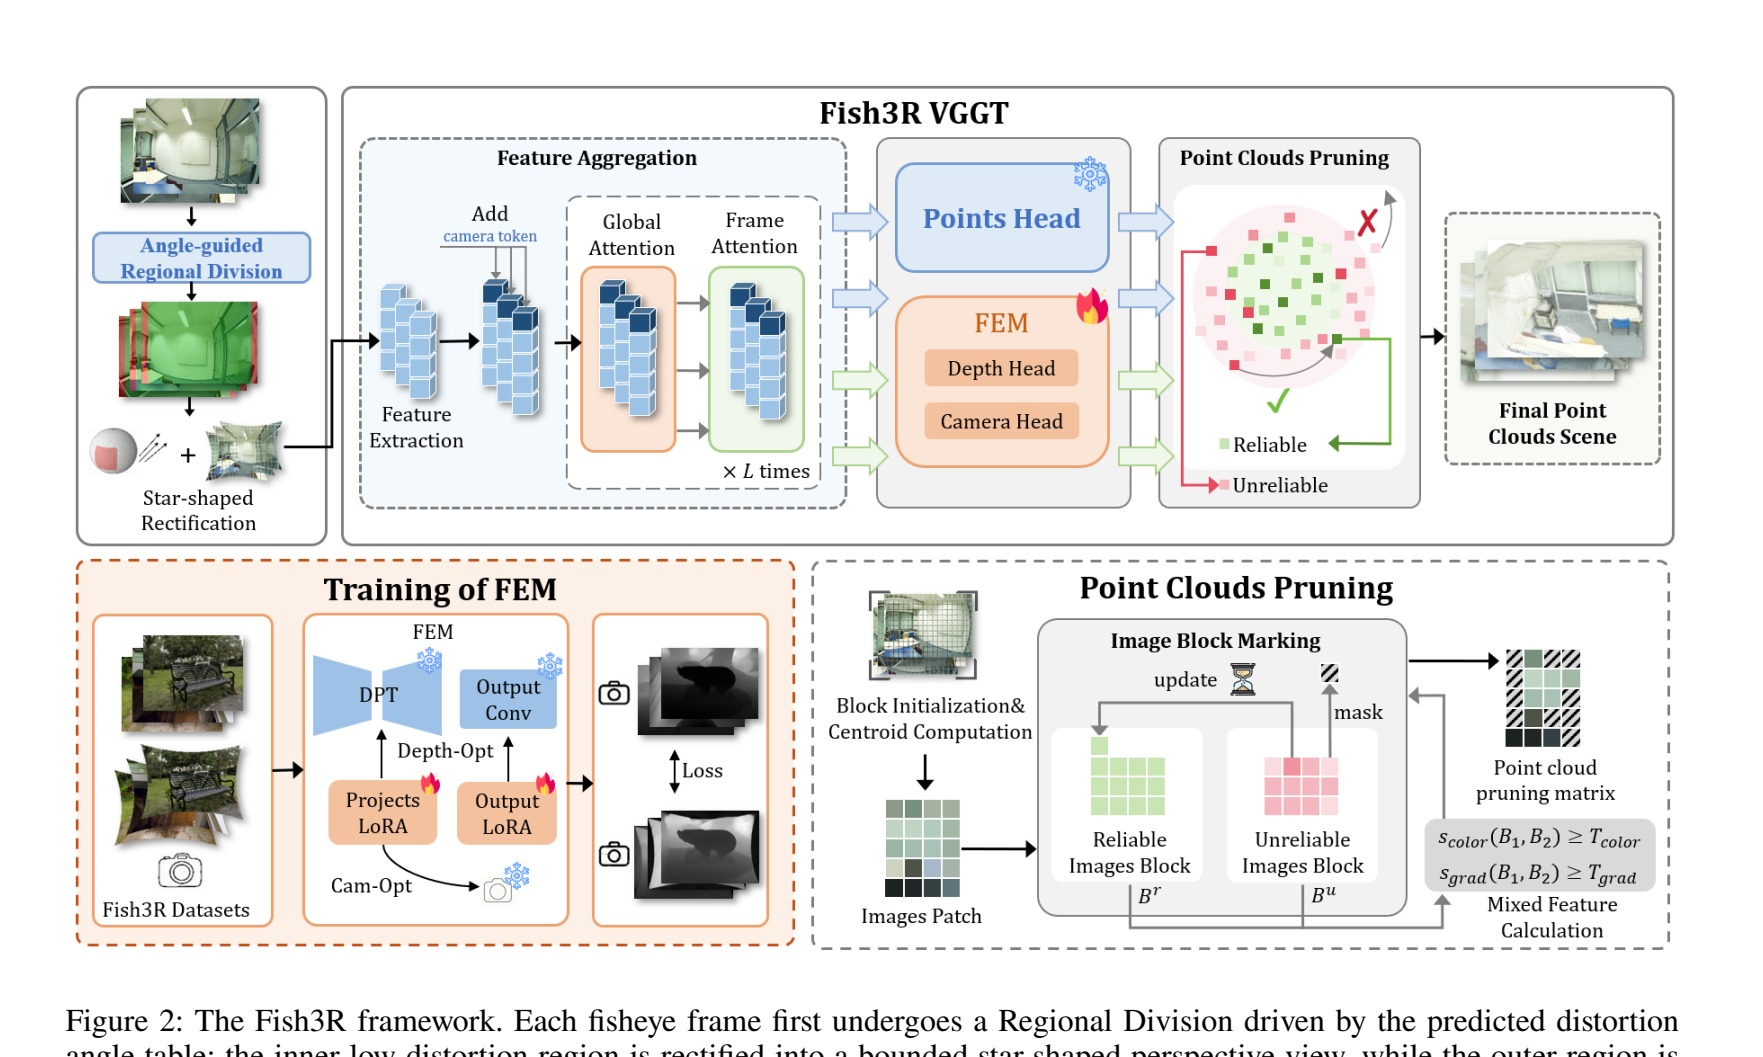
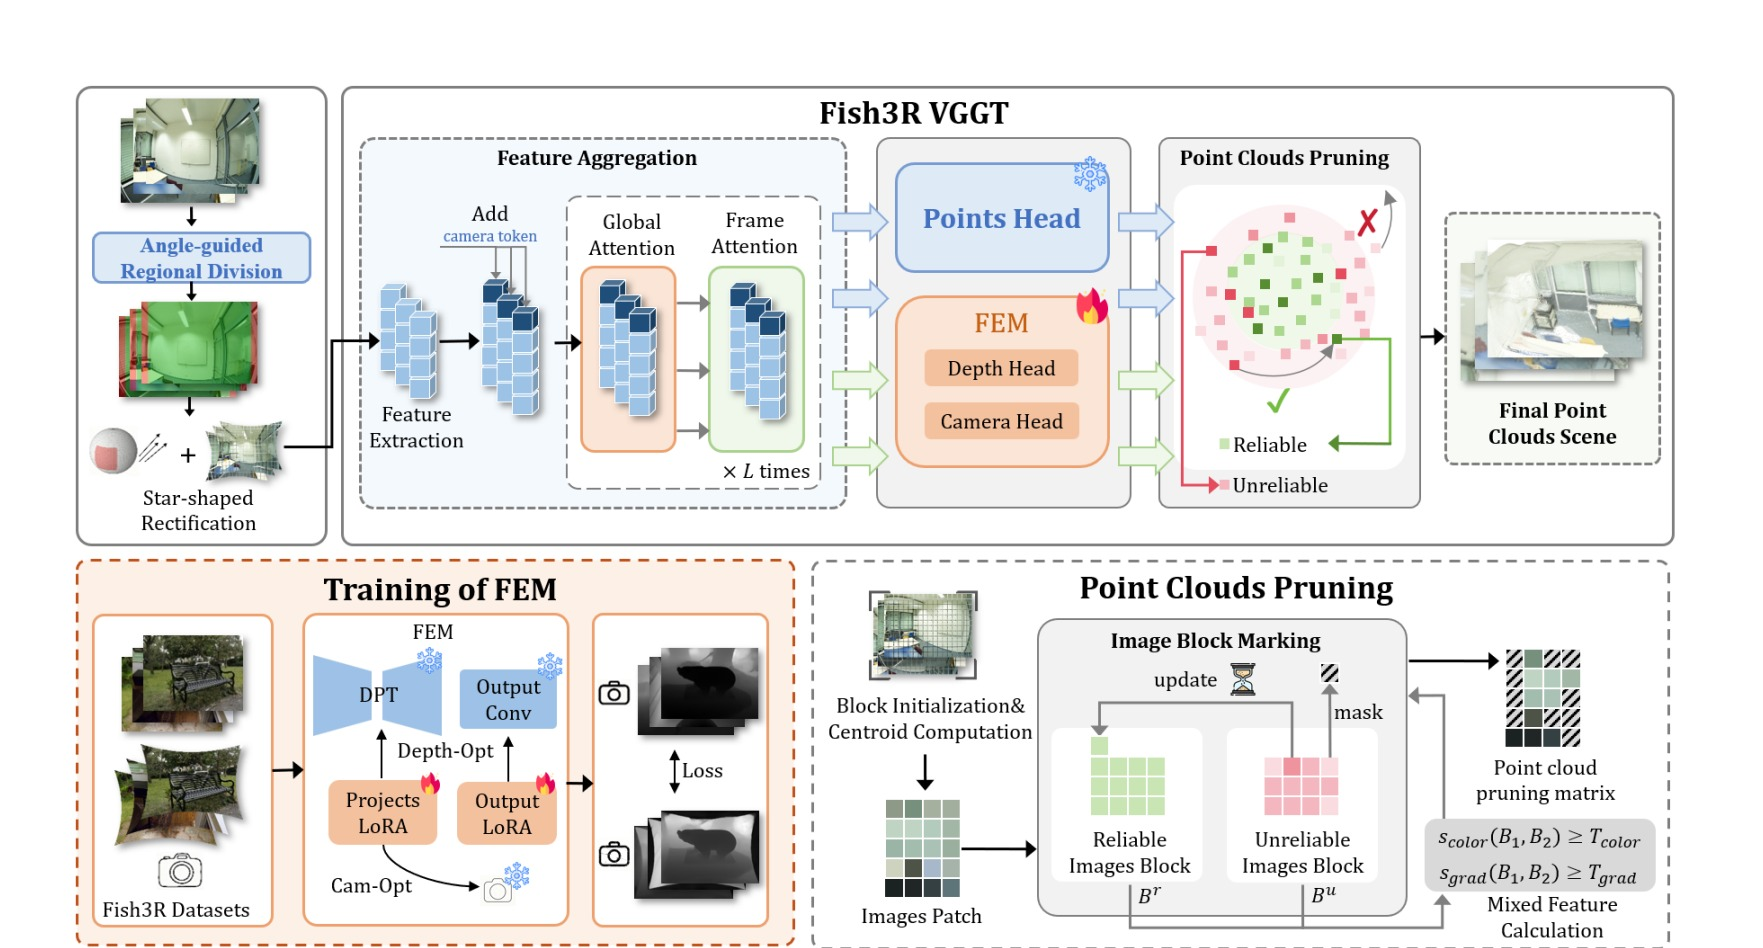
Clean pipeline crop, glow-framed figures, 7-scene marquee

diff --git a/assets/css/style.css b/assets/css/style.css
@@ -149,12 +149,29 @@ img { max-width: 100%; display: block; }
 
 /* figure cards (white figures on dark page) */
 .fig-card {
-  background: #fff; border-radius: var(--radius);
-  padding: 14px; box-shadow: 0 18px 50px rgba(0, 0, 0, .5);
+  position: relative;
+  background: #fff; border-radius: 18px;
+  padding: 14px;
   margin-bottom: 44px;
+  border: 1px solid rgba(148, 163, 216, .28);
+  box-shadow:
+    0 0 0 1px rgba(34, 211, 238, .12),
+    0 0 44px rgba(34, 211, 238, .07),
+    0 22px 60px rgba(0, 0, 0, .55);
 }
-.fig-card img { border-radius: 9px; }
-.fig-card figcaption { padding: 12px 6px 2px; font-size: 13px; color: #4b5164; line-height: 1.55; }
+/* gradient edge: lets the white card melt softly into the dark page */
+.fig-card::after {
+  content: ""; position: absolute; inset: -1px; border-radius: 18px;
+  padding: 1px; pointer-events: none;
+  background: linear-gradient(140deg, rgba(34, 211, 238, .55), rgba(148, 163, 216, .12) 30%, rgba(148, 163, 216, .12) 70%, rgba(129, 140, 248, .5));
+  -webkit-mask: linear-gradient(#000 0 0) content-box, linear-gradient(#000 0 0);
+  -webkit-mask-composite: xor; mask-composite: exclude;
+}
+.fig-card img { border-radius: 10px; }
+.fig-card figcaption {
+  padding: 12px 6px 2px; font-size: 13px; color: #4b5164; line-height: 1.55;
+  border-top: 1px dashed rgba(75, 81, 100, .18); margin: 10px 6px 0;
+}
 
 /* abstract: newspaper-style two-column prose */
 .prose {

diff --git a/assets/js/main.js b/assets/js/main.js
@@ -91,8 +91,10 @@
     if (!track) return;
     var shots = [
       { src: "assets/images/fisheye-kitti.jpg",     label: "KITTI · driving" },
+      { src: "assets/images/fisheye-kitti360.jpg",  label: "KITTI-360 · driving" },
       { src: "assets/images/fisheye-mall.jpg",      label: "Ours · indoor" },
       { src: "assets/images/fisheye-scannet.jpg",   label: "ScanNet++ · indoor" },
+      { src: "assets/images/fisheye-scannet2.jpg",  label: "ScanNet++ · room" },
       { src: "assets/images/fisheye-street.jpg",    label: "Ours · street" },
       { src: "assets/images/fisheye-woodspace.jpg", label: "WoodSpace · urban" }
     ];
